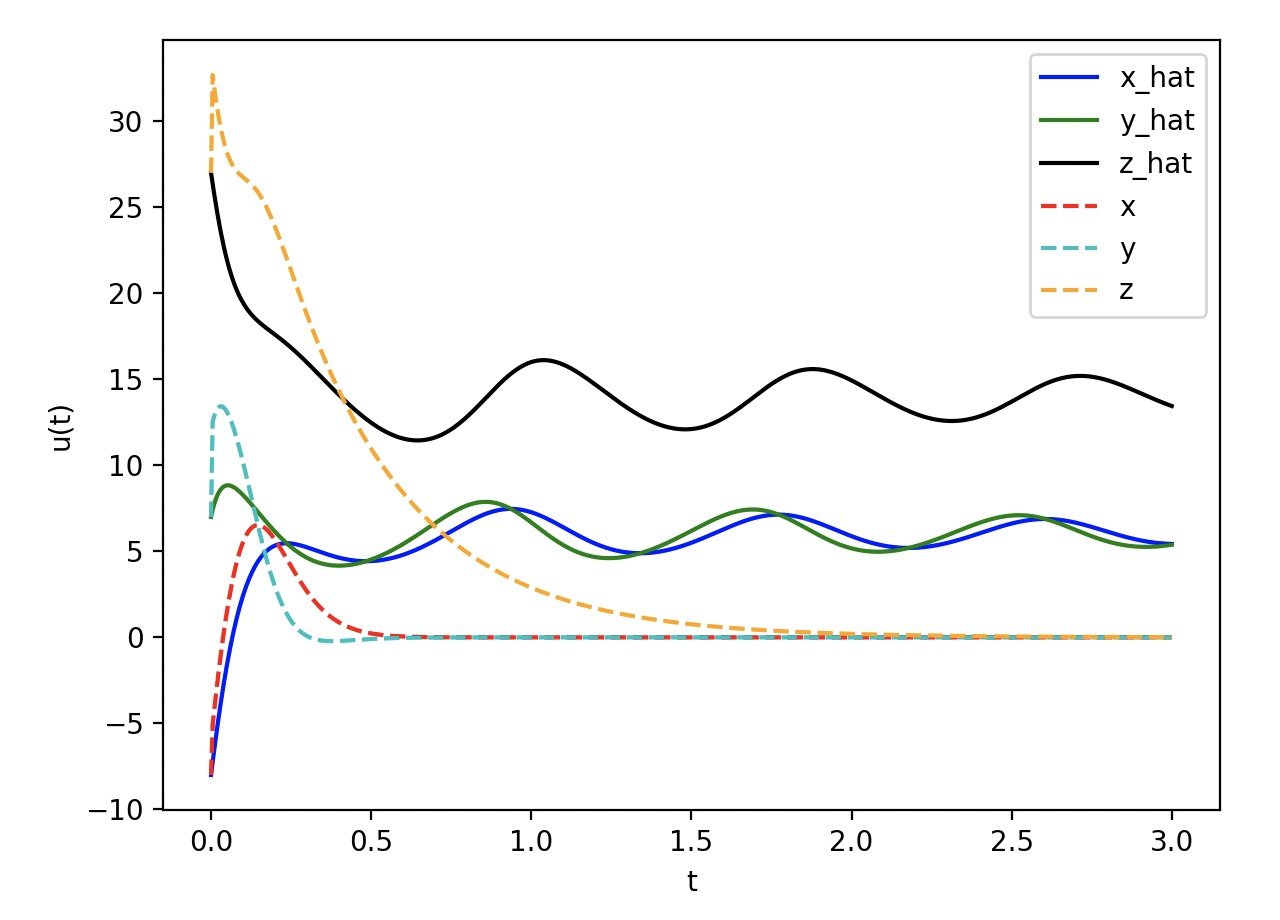
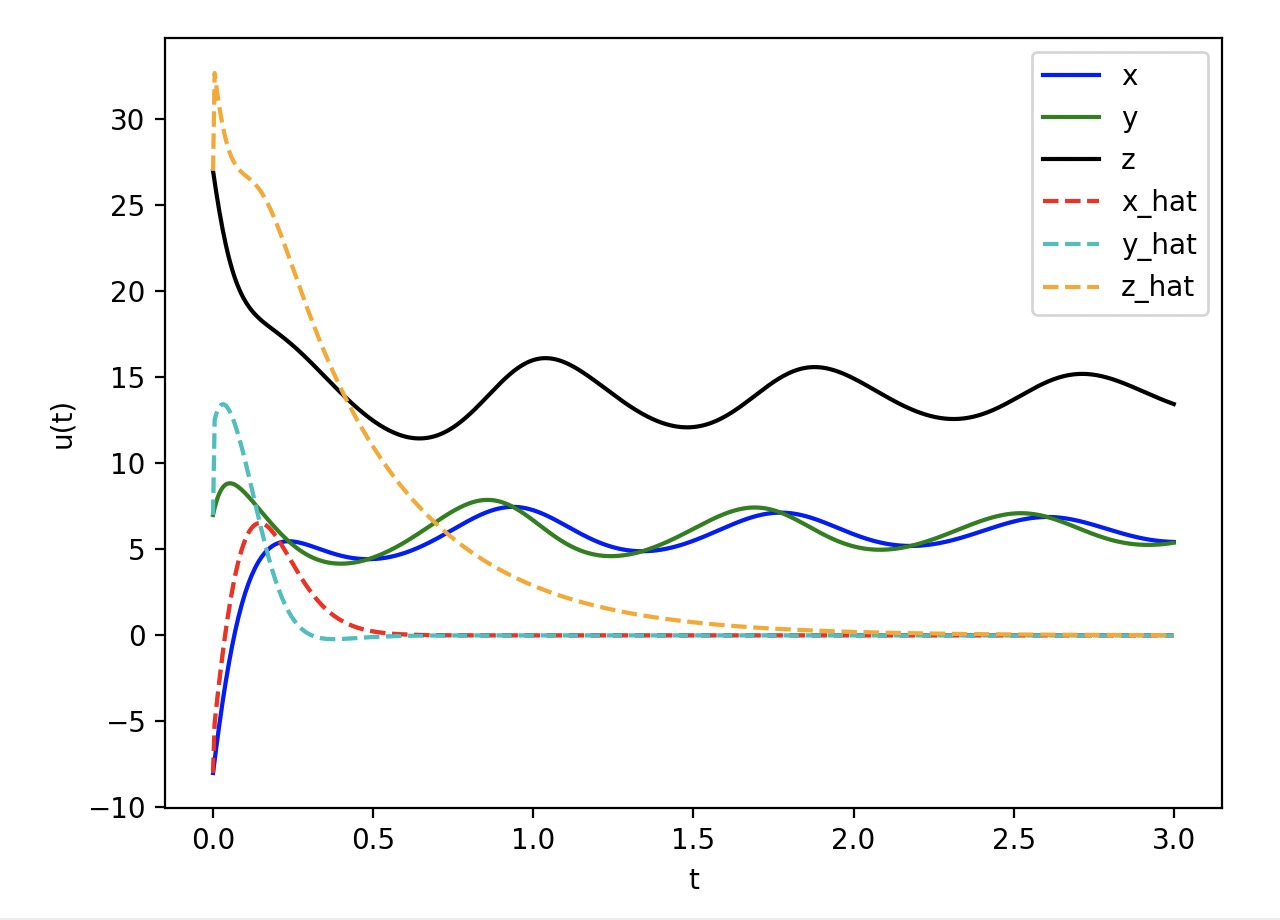
MLDA

diff --git a/lorenz63/for_paper/lorenz63_non_chaos_pinn_02_test.py b/lorenz63/for_paper/lorenz63_non_chaos_pinn_02_test.py
@@ -36,12 +36,12 @@ if "__main__" == __name__:
     ax1 = fig.add_subplot(121)
     ax2 = fig.add_subplot(122, projection='3d')
 
-    ax1.plot(t, x, color='b', label='x_hat')
-    ax1.plot(t, y, color='g', label='y_hat')
-    ax1.plot(t, z, color='k', label='z_hat')
-    ax1.plot(t, x_hat, 'r--', label='x')
-    ax1.plot(t, y_hat, 'c--', label='y')
-    ax1.plot(t, z_hat, color='orange', linestyle='--', label='z')
+    ax1.plot(t, x, color='b', label='x')
+    ax1.plot(t, y, color='g', label='y')
+    ax1.plot(t, z, color='k', label='z')
+    ax1.plot(t, x_hat, 'r--', label='x_hat')
+    ax1.plot(t, y_hat, 'c--', label='y_hat')
+    ax1.plot(t, z_hat, color='orange', linestyle='--', label='z_hat')
     ax1.set_xlabel('t', color='black')
     ax1.set_ylabel('u(t)', color='black')
     ax1.legend(loc='upper right')

diff --git a/lorenz63/for_paper/lorenz63_non_chaos_pinn_03_test.py b/lorenz63/for_paper/lorenz63_non_chaos_pinn_03_test.py
@@ -36,12 +36,12 @@ if "__main__" == __name__:
     ax1 = fig.add_subplot(121)
     ax2 = fig.add_subplot(122, projection='3d')
 
-    ax1.plot(t, x, color='b', label='x_hat')
-    ax1.plot(t, y, color='g', label='y_hat')
-    ax1.plot(t, z, color='k', label='z_hat')
-    ax1.plot(t, x_hat, 'r--', label='x')
-    ax1.plot(t, y_hat, 'c--', label='y')
-    ax1.plot(t, z_hat, color='orange', linestyle='--', label='z')
+    ax1.plot(t, x, color='b', label='x')
+    ax1.plot(t, y, color='g', label='y')
+    ax1.plot(t, z, color='k', label='z')
+    ax1.plot(t, x_hat, 'r--', label='x_hat')
+    ax1.plot(t, y_hat, 'c--', label='y_hat')
+    ax1.plot(t, z_hat, color='orange', linestyle='--', label='z_hat')
     ax1.set_xlabel('t', color='black')
     ax1.set_ylabel('u(t)', color='black')
     ax1.legend(loc='upper right')
